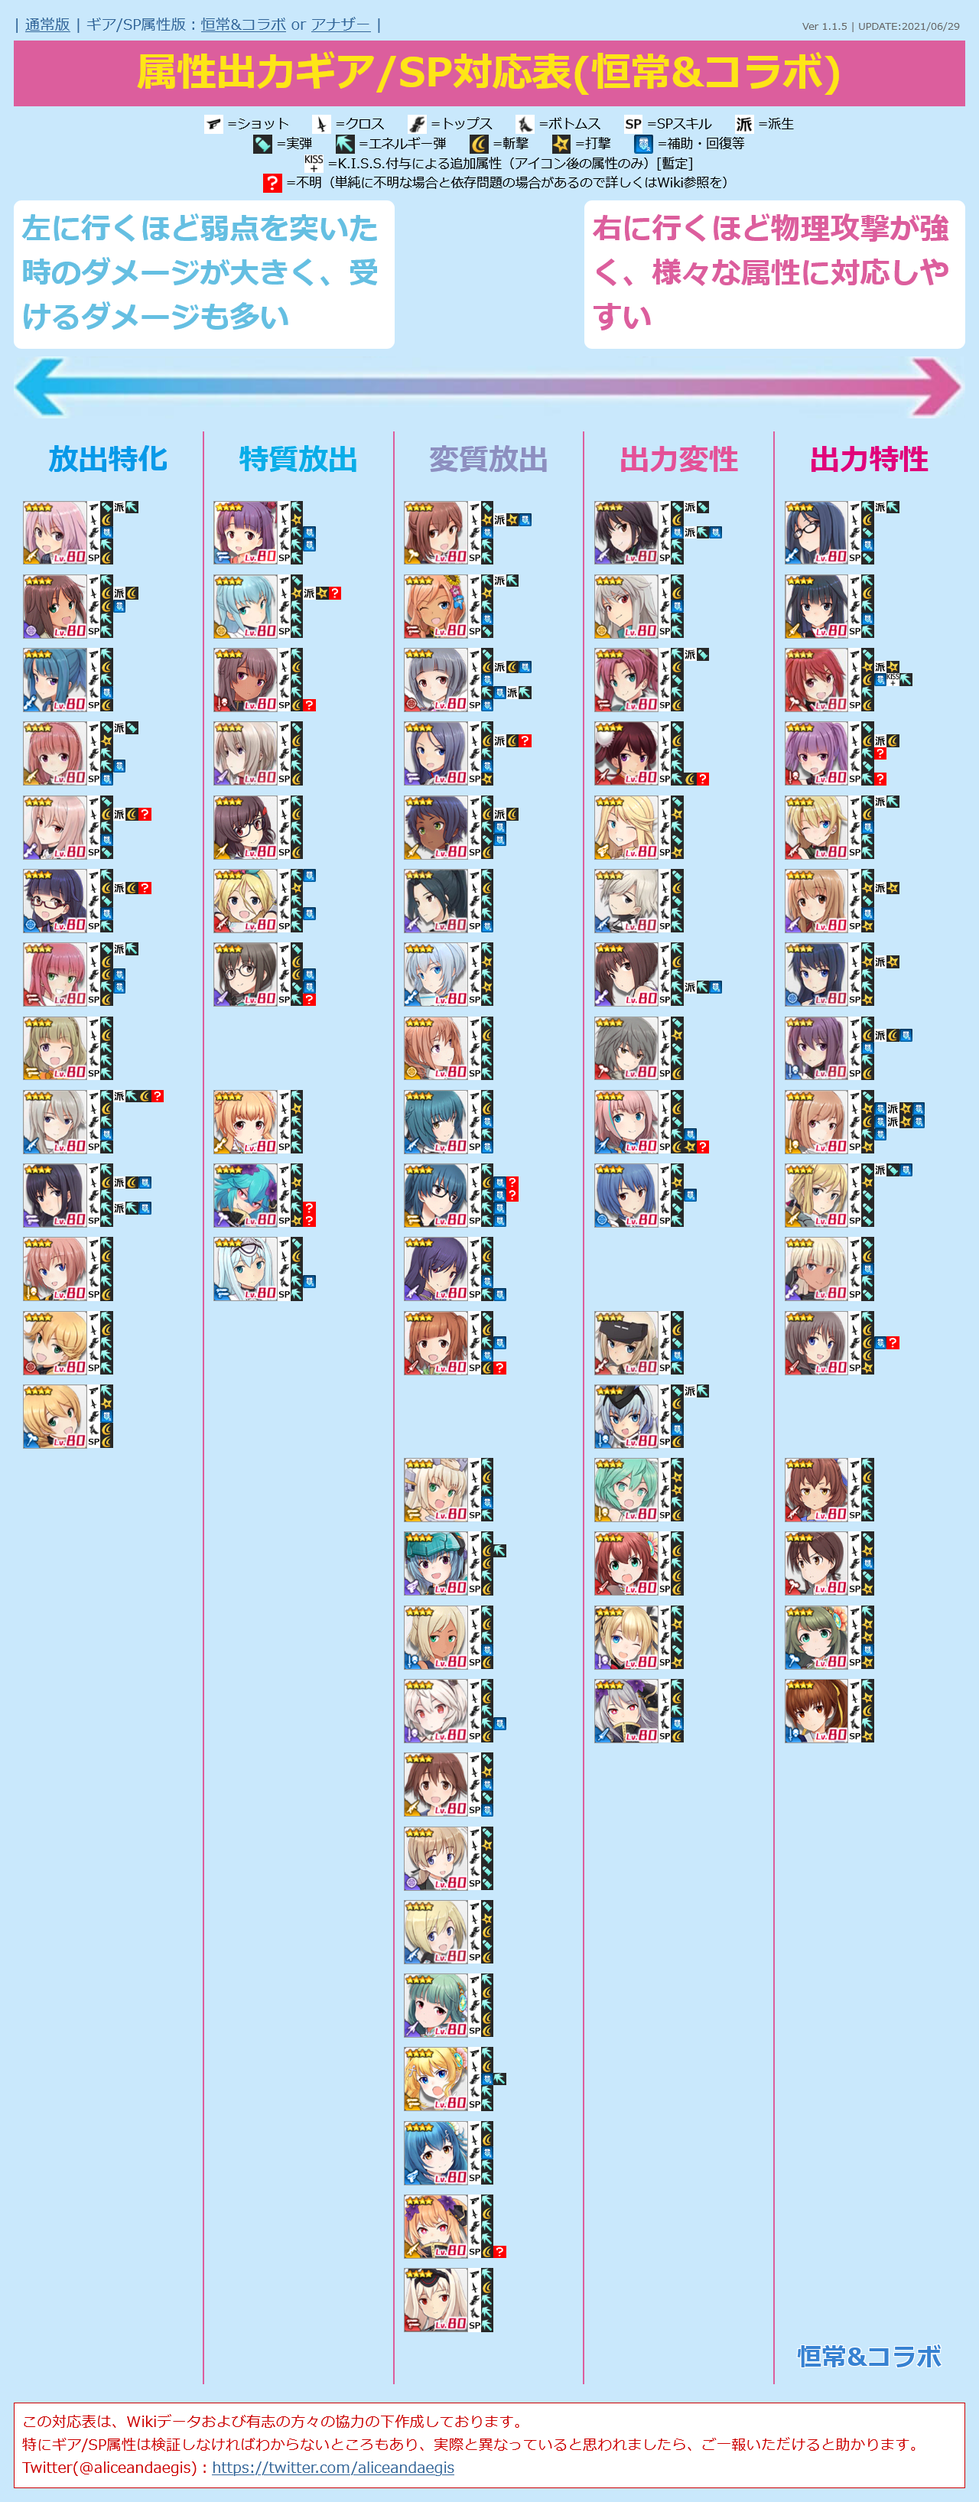
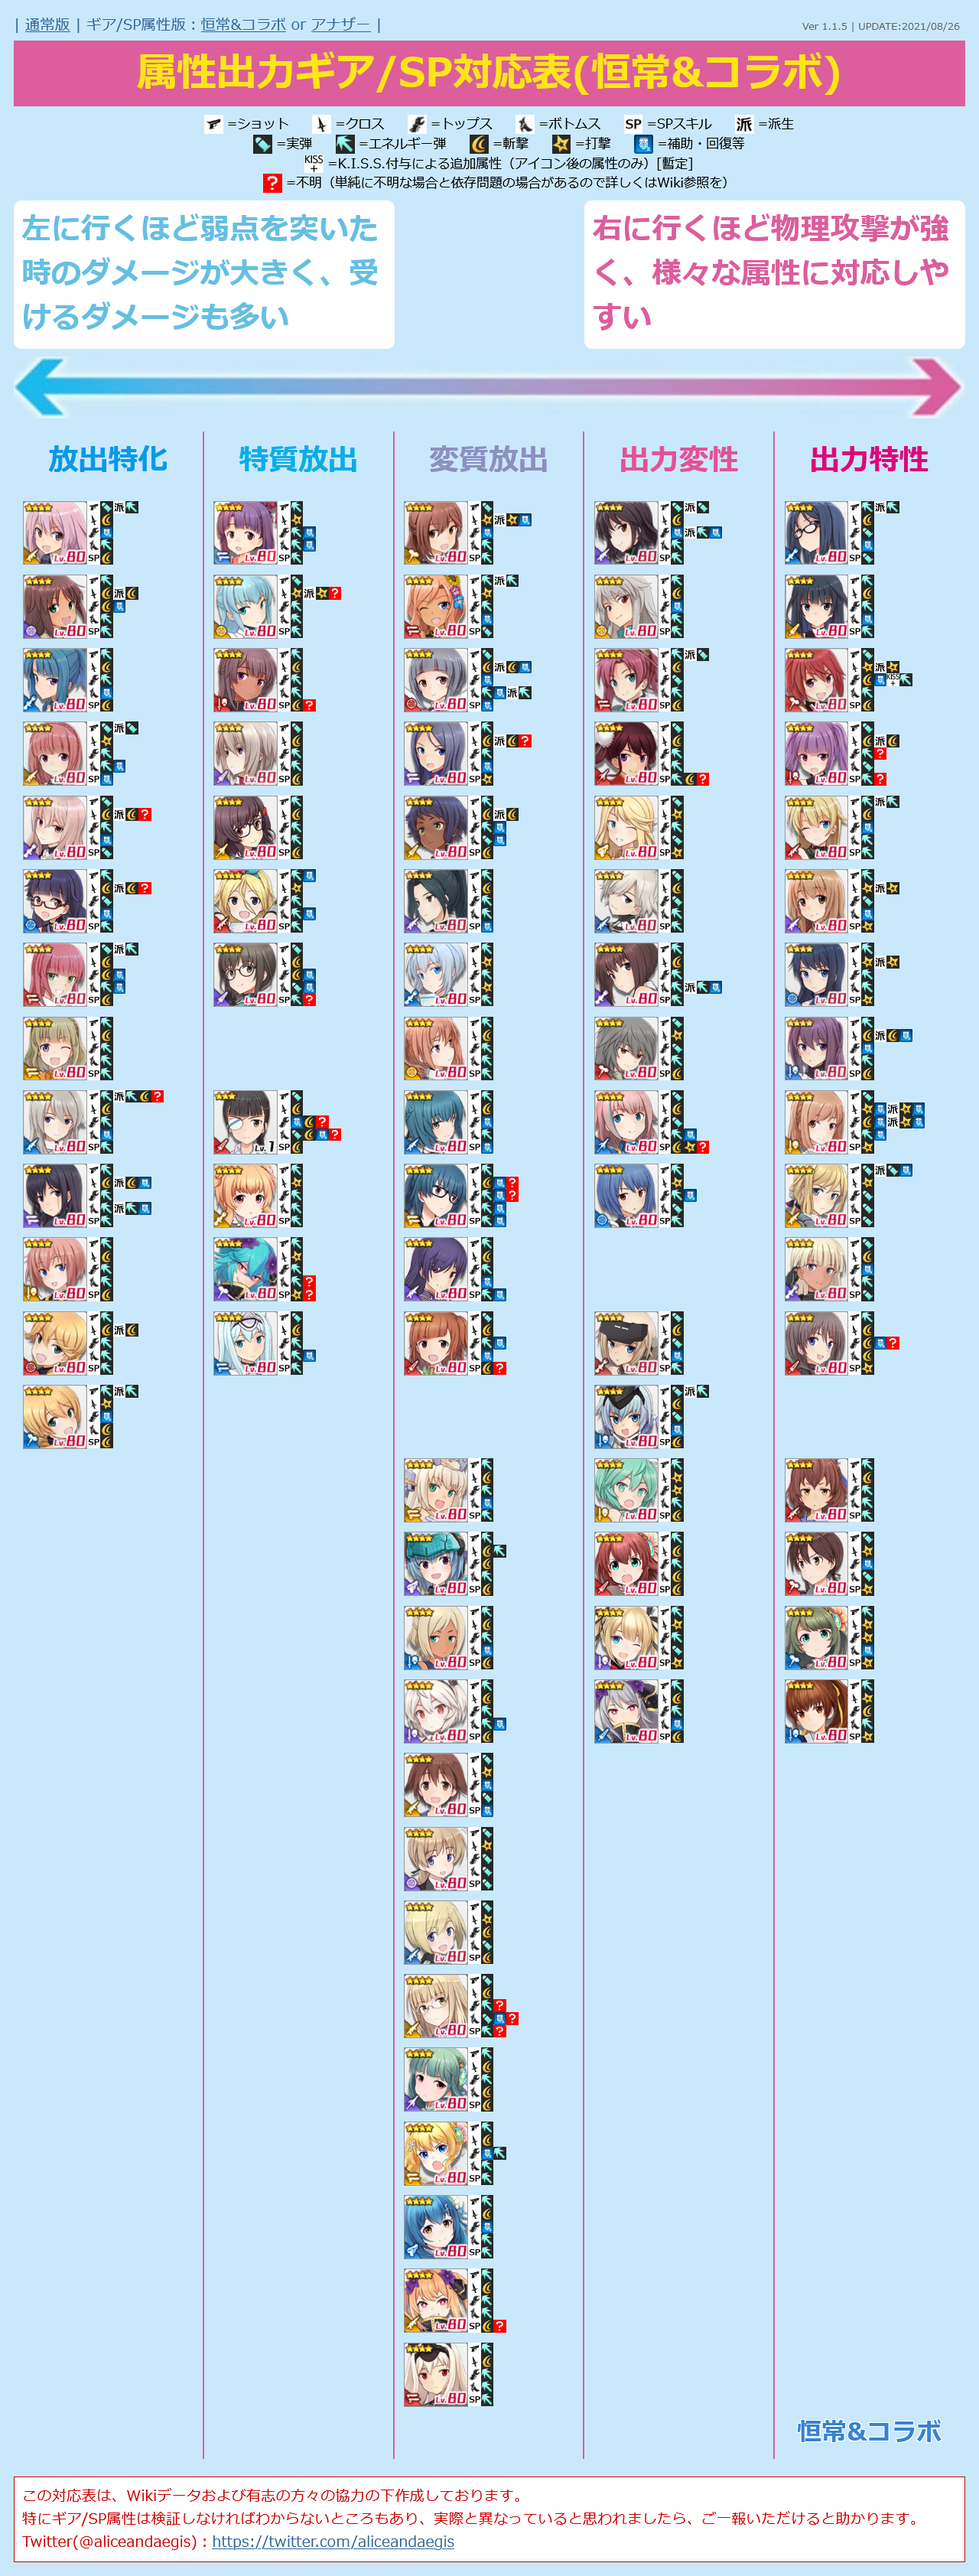
UPDATE chara data
・コラボキャラ 坂本 美緒を追加
・コラボキャラ ペリーヌ・クロステルマンを追加
※キャラ画像及びギア属性等は後日変更予定

diff --git a/alice.html b/alice.html
@@ -12,7 +12,7 @@
   <script>
 
 /* 更新情報 必要に応じて書き換えてください */
-  var version = "Ver 1.1.5 | UPDATE:2021/07/15";
+  var version = "Ver 1.1.5 | UPDATE:2021/08/26";
 
 
 /*
@@ -1024,7 +1024,7 @@
       "src": "normal-akane.png",
       "name": "琴村 朱音",
       "equip1": "2",
-      "equip2": "3",
+      "equip2": "3/3",
       "equip3": "2",
       "equip4": "2",
       "sp": "2",
@@ -1038,7 +1038,7 @@
       "src": "another-akane.png",
       "name": "琴村 朱音 / 炎天",
       "equip1": "2",
-      "equip2": "3",
+      "equip2": "3/3",
       "equip3": "2",
       "equip4": "2",
       "sp": "35",
@@ -1051,7 +1051,7 @@
       "type": "1",
       "src": "normal-amane.png",
       "name": "琴村 天音",
-      "equip1": "2",
+      "equip1": "2/2",
       "equip2": "4",
       "equip3": "5",
       "equip4": "3",
@@ -1065,7 +1065,7 @@
       "type": "3",
       "src": "another-amane.png",
       "name": "琴村 天音 / 玄天",
-      "equip1": "2",
+      "equip1": "2/2",
       "equip2": "4",
       "equip3": "5",
       "equip4": "3",
@@ -1492,6 +1492,34 @@
       "sp": "3",
       "attr": "4",
       "link": "https://wikiwiki.jp/alicegear/%E3%82%A8%E3%83%BC%E3%83%AA%E3%82%AB%E3%83%BB%E3%83%8F%E3%83%AB%E3%83%88%E3%83%9E%E3%83%B3",
+      "category": "99"
+    },
+    {
+      "id": "305",
+      "type": "2",
+      "src": "normal-sakamoto.png",
+      "name": "坂本 美緒",
+      "equip1": "1",
+      "equip2": "3",
+      "equip3": "53?",
+      "equip4": "135?",
+      "sp": "3",
+      "attr": "3",
+      "link": "https://wikiwiki.jp/alicegear/%E5%9D%82%E6%9C%AC%E7%BE%8E%E7%B7%92",
+      "category": "99"
+    },
+    {
+      "id": "306",
+      "type": "3",
+      "src": "normal-perrine.png",
+      "name": "ペリーヌ・クロステルマン",
+      "equip1": "1",
+      "equip2": "3",
+      "equip3": "2?",
+      "equip4": "15?",
+      "sp": "2?",
+      "attr": "1",
+      "link": "https://wikiwiki.jp/alicegear/%E3%83%9A%E3%83%AA%E3%83%BC%E3%83%8C%E3%83%BB%E3%82%AF%E3%83%AD%E3%82%B9%E3%83%86%E3%83%AB%E3%83%9E%E3%83%B3",
       "category": "99"
     },
     {
